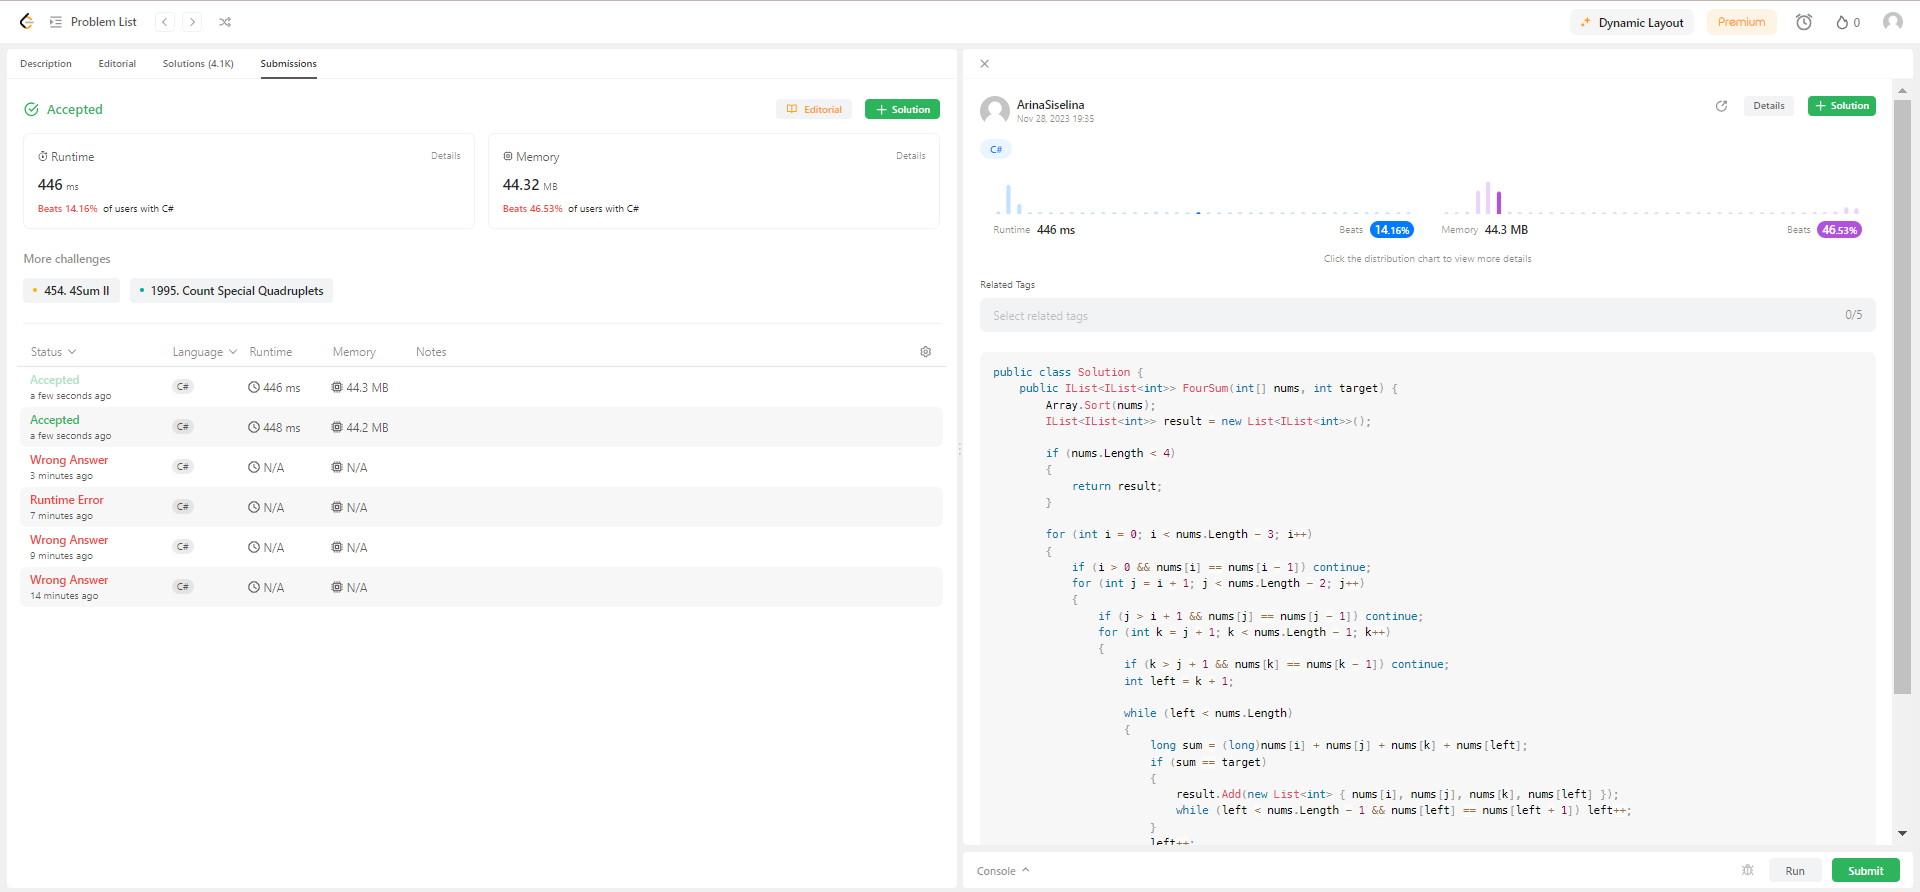
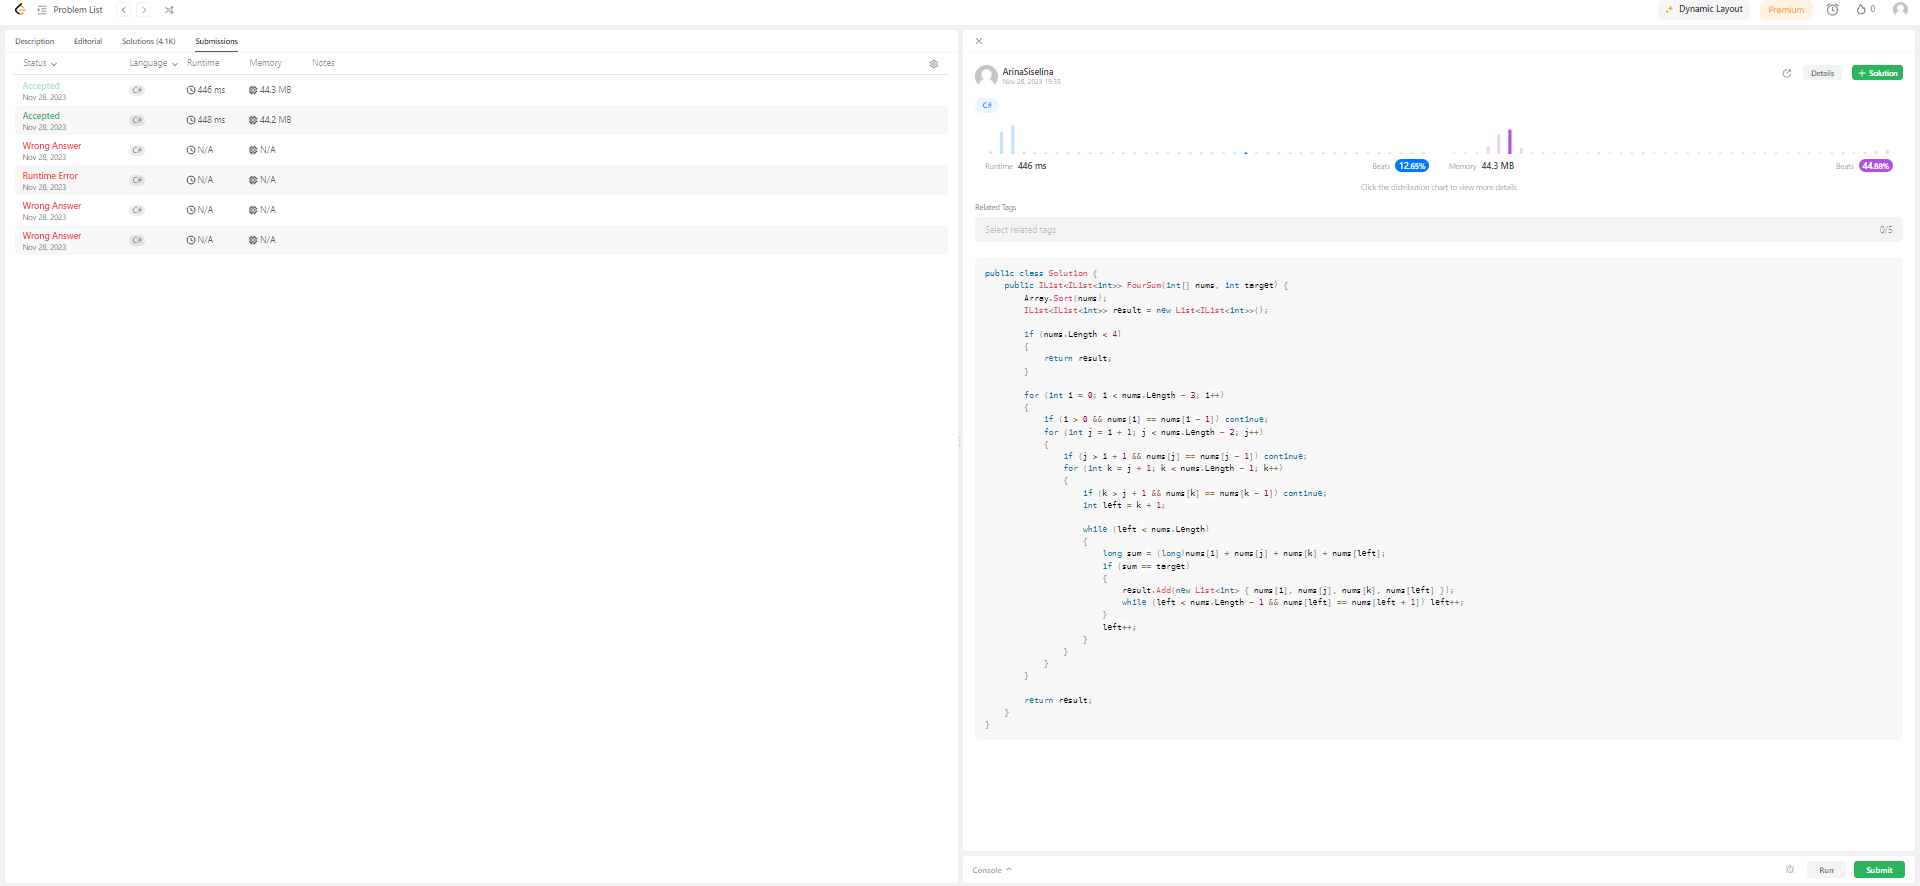
Edit 4Sum problem solution

diff --git a/ScnSoft-Education/LeetCodeTraining/4Sum-18/4SumSolution.cs b/ScnSoft-Education/LeetCodeTraining/4Sum-18/4SumSolution.cs
@@ -15,23 +15,40 @@
 
             for (int i = 0; i < nums.Length - 3; i++)
             {
-                if (i > 0 && nums[i] == nums[i - 1]) continue;
+                if (i > 0 && nums[i] == nums[i - 1]) 
+                { 
+                    continue;
+                }
+                    
                 for (int j = i + 1; j < nums.Length - 2; j++)
                 {
-                    if (j > i + 1 && nums[j] == nums[j - 1]) continue;
+                    if (j > i + 1 && nums[j] == nums[j - 1])
+                    {
+                        continue;
+                    }
+                     
                     for (int k = j + 1; k < nums.Length - 1; k++)
                     {
-                        if (k > j + 1 && nums[k] == nums[k - 1]) continue;
+                        if (k > j + 1 && nums[k] == nums[k - 1])
+                        {
+                            continue;
+                        }
+                            
                         int left = k + 1;
 
                         while (left < nums.Length)
                         {
                             long sum = (long)nums[i] + nums[j] + nums[k] + nums[left];
+
                             if (sum == target)
                             {
                                 result.Add(new List<int> { nums[i], nums[j], nums[k], nums[left] });
-                                while (left < nums.Length - 1 && nums[left] == nums[left + 1]) left++;
+                                while (left < nums.Length - 1 && nums[left] == nums[left + 1])
+                                {
+                                    left++;
+                                }   
                             }
+
                             left++;
                         }
                     }

diff --git a/ScnSoft-Education/LeetCodeTraining.Tests/4SumTest.cs b/ScnSoft-Education/LeetCodeTraining.Tests/4SumTest.cs
@@ -8,34 +8,33 @@ namespace LeetCodeTraining.Tests
         {
             yield return new object[]
             {
-                new int[] { 1, 0, -1, 0, -2, 2 }, 0,
-                new int[][] { new int[] { -2, -1, 1, 2 }, new int[] { -2, 0, 0, 2 }, new int[] { -1, 0, 0, 1 } }
+                new int[] { 1, 0, -1, 0, -2, 2 },
+                0,
+                new List<IList<int>>
+                {
+                    new List<int> { -2, -1, 1, 2 },
+                    new List<int> { -2, 0, 0, 2 },
+                    new List<int> { -1, 0, 0, 1 }
+                }
             };
 
             yield return new object[]
             {
-                new int[] { 2, 2, 2, 2, 2 }, 8,
-                new int[][] { new int[] { 2, 2, 2, 2 } }
+                new int[] { 2, 2, 2, 2, 2 },
+                8,
+                new List<IList<int>> { new List<int> { 2, 2, 2, 2 } }
             };
         }
 
         [Theory]
         [MemberData(nameof(FourSumTestCases))]
-        public void FourSum_ShouldReturnCorrectResult(int[] nums, int target, int[][] expected)
+        public void FourSum(int[] nums, int target, List<IList<int>> expected)
         {
             // Act
             var result = FourSumSolution.FourSum(nums, target);
 
             // Assert
-            Assert.Equal(expected.Length, result.Count);
-            for (int i = 0; i < expected.Length; i++)
-            {
-                Assert.Equal(expected[i].Length, result[i].Count);
-                for (int j = 0; j < expected[i].Length; j++)
-                {
-                    Assert.Equal(expected[i][j], result[i][j]);
-                }
-            }
+            Assert.Equal(expected, result);
         }
     }
 }
